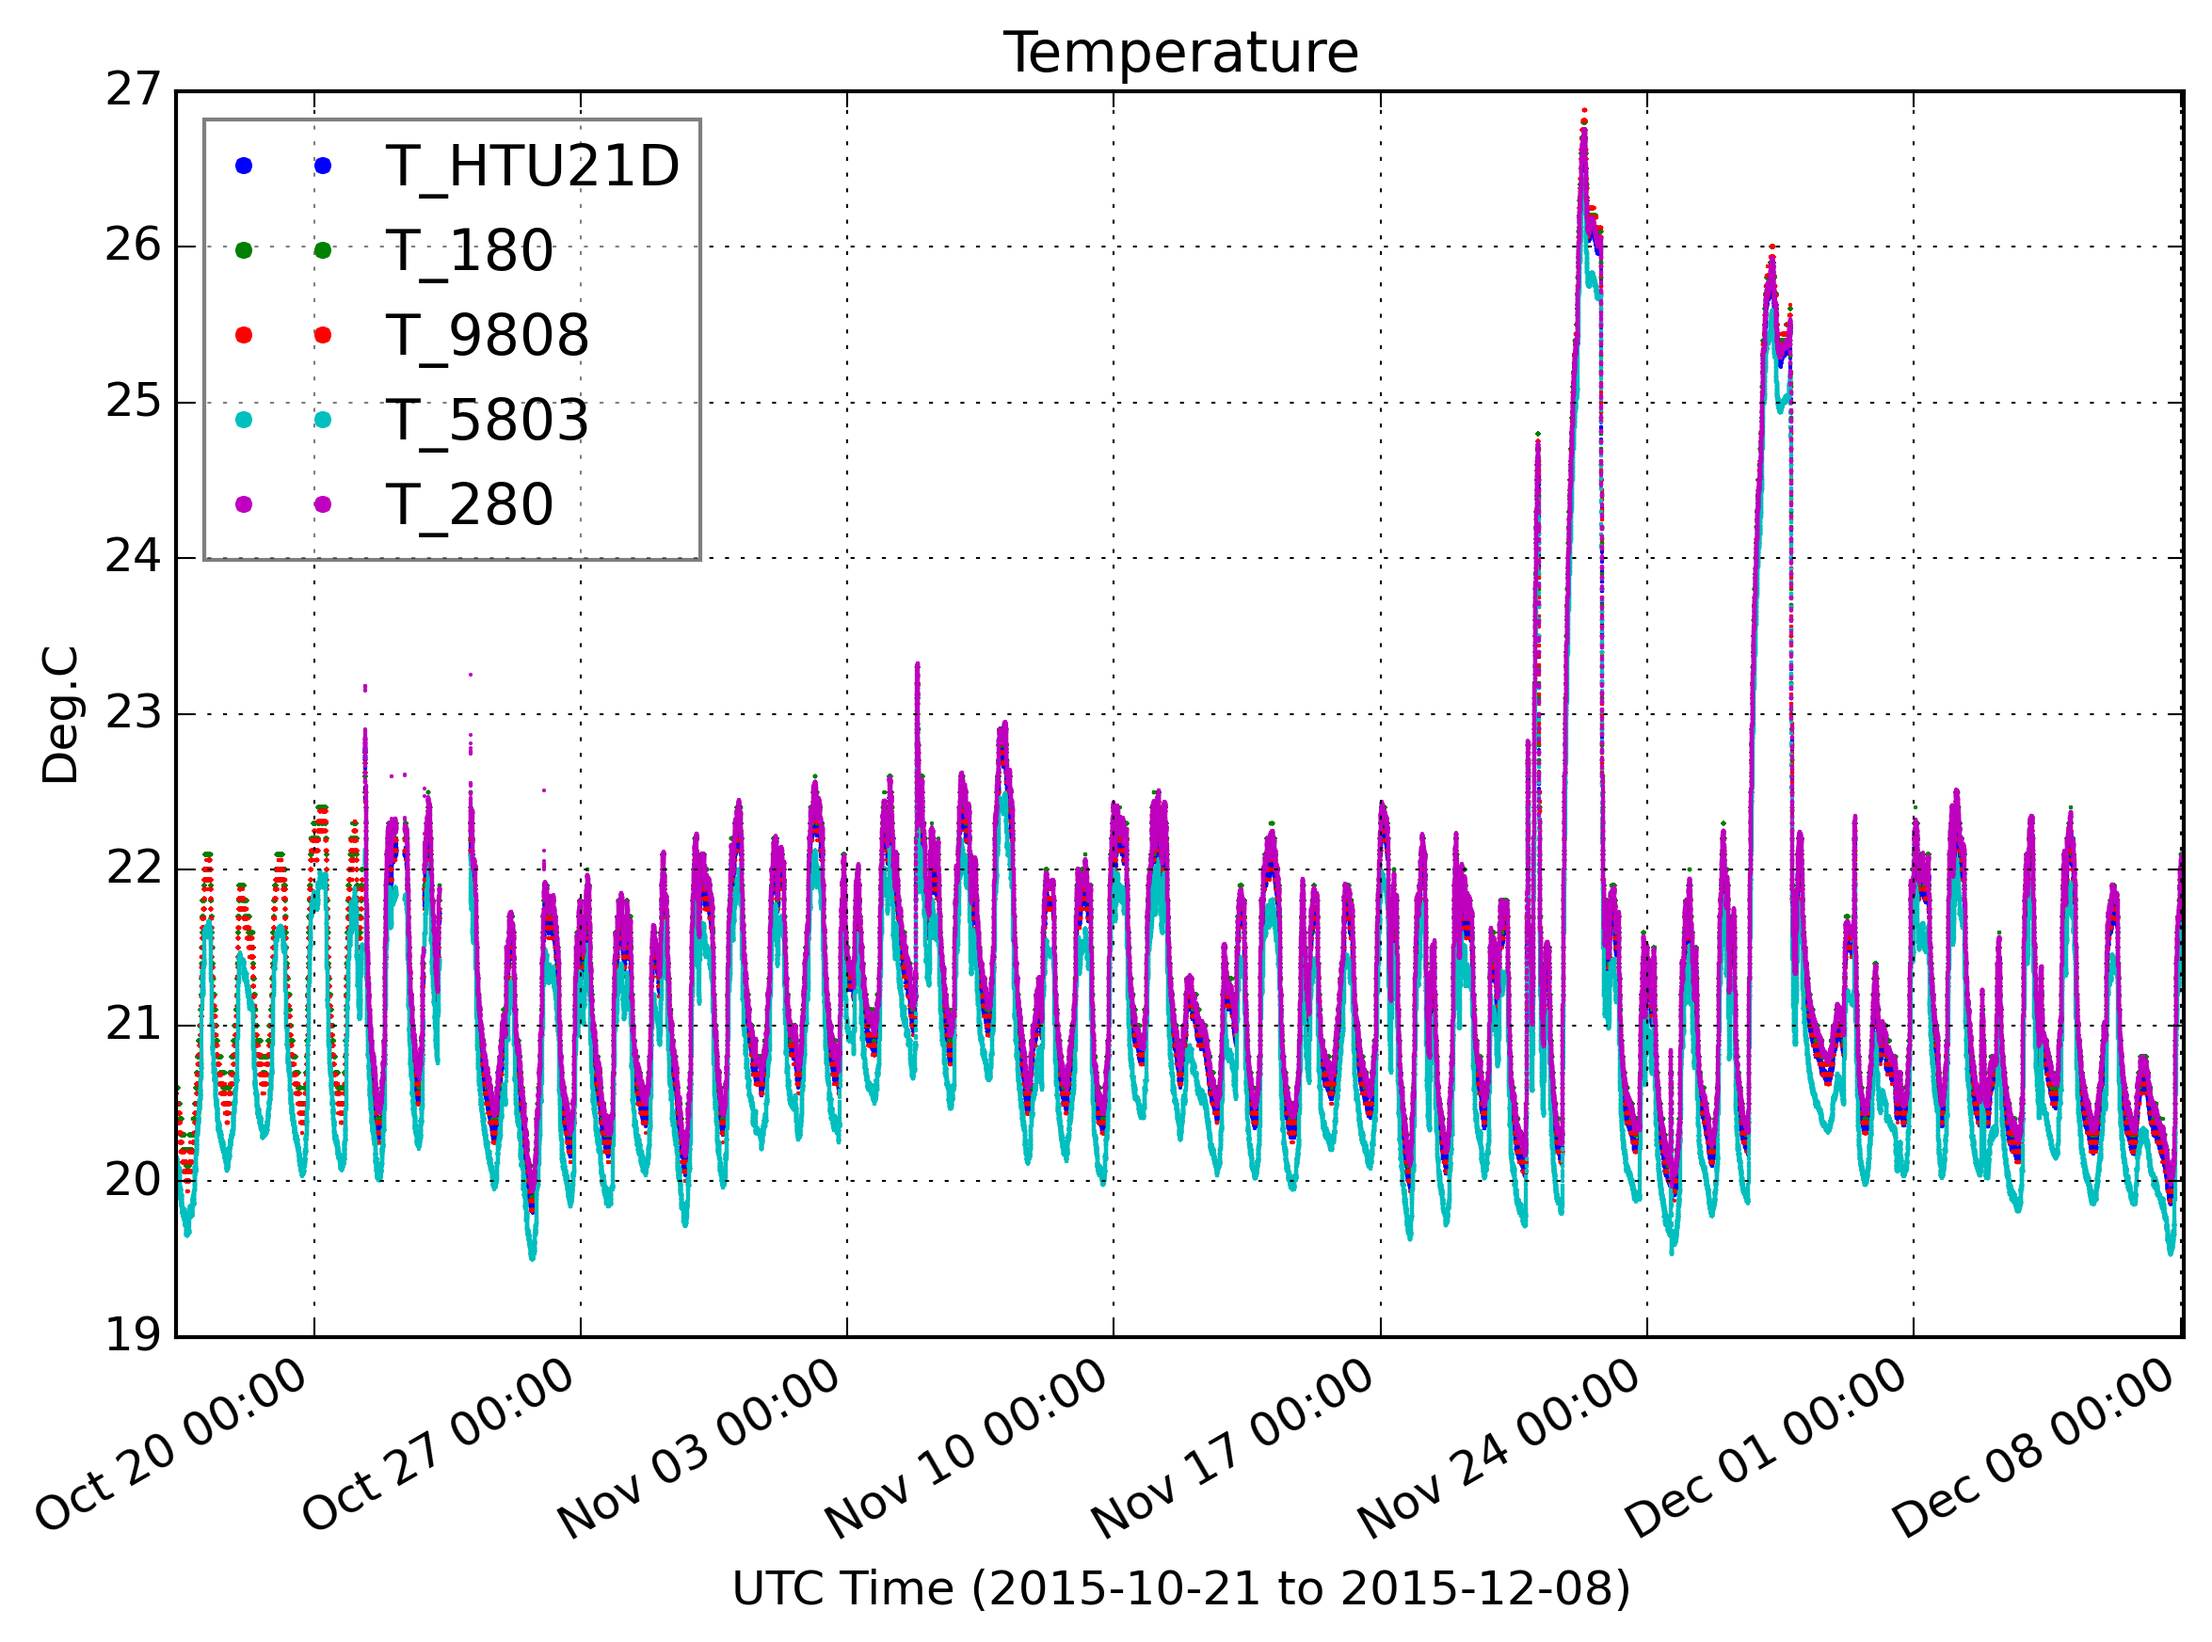
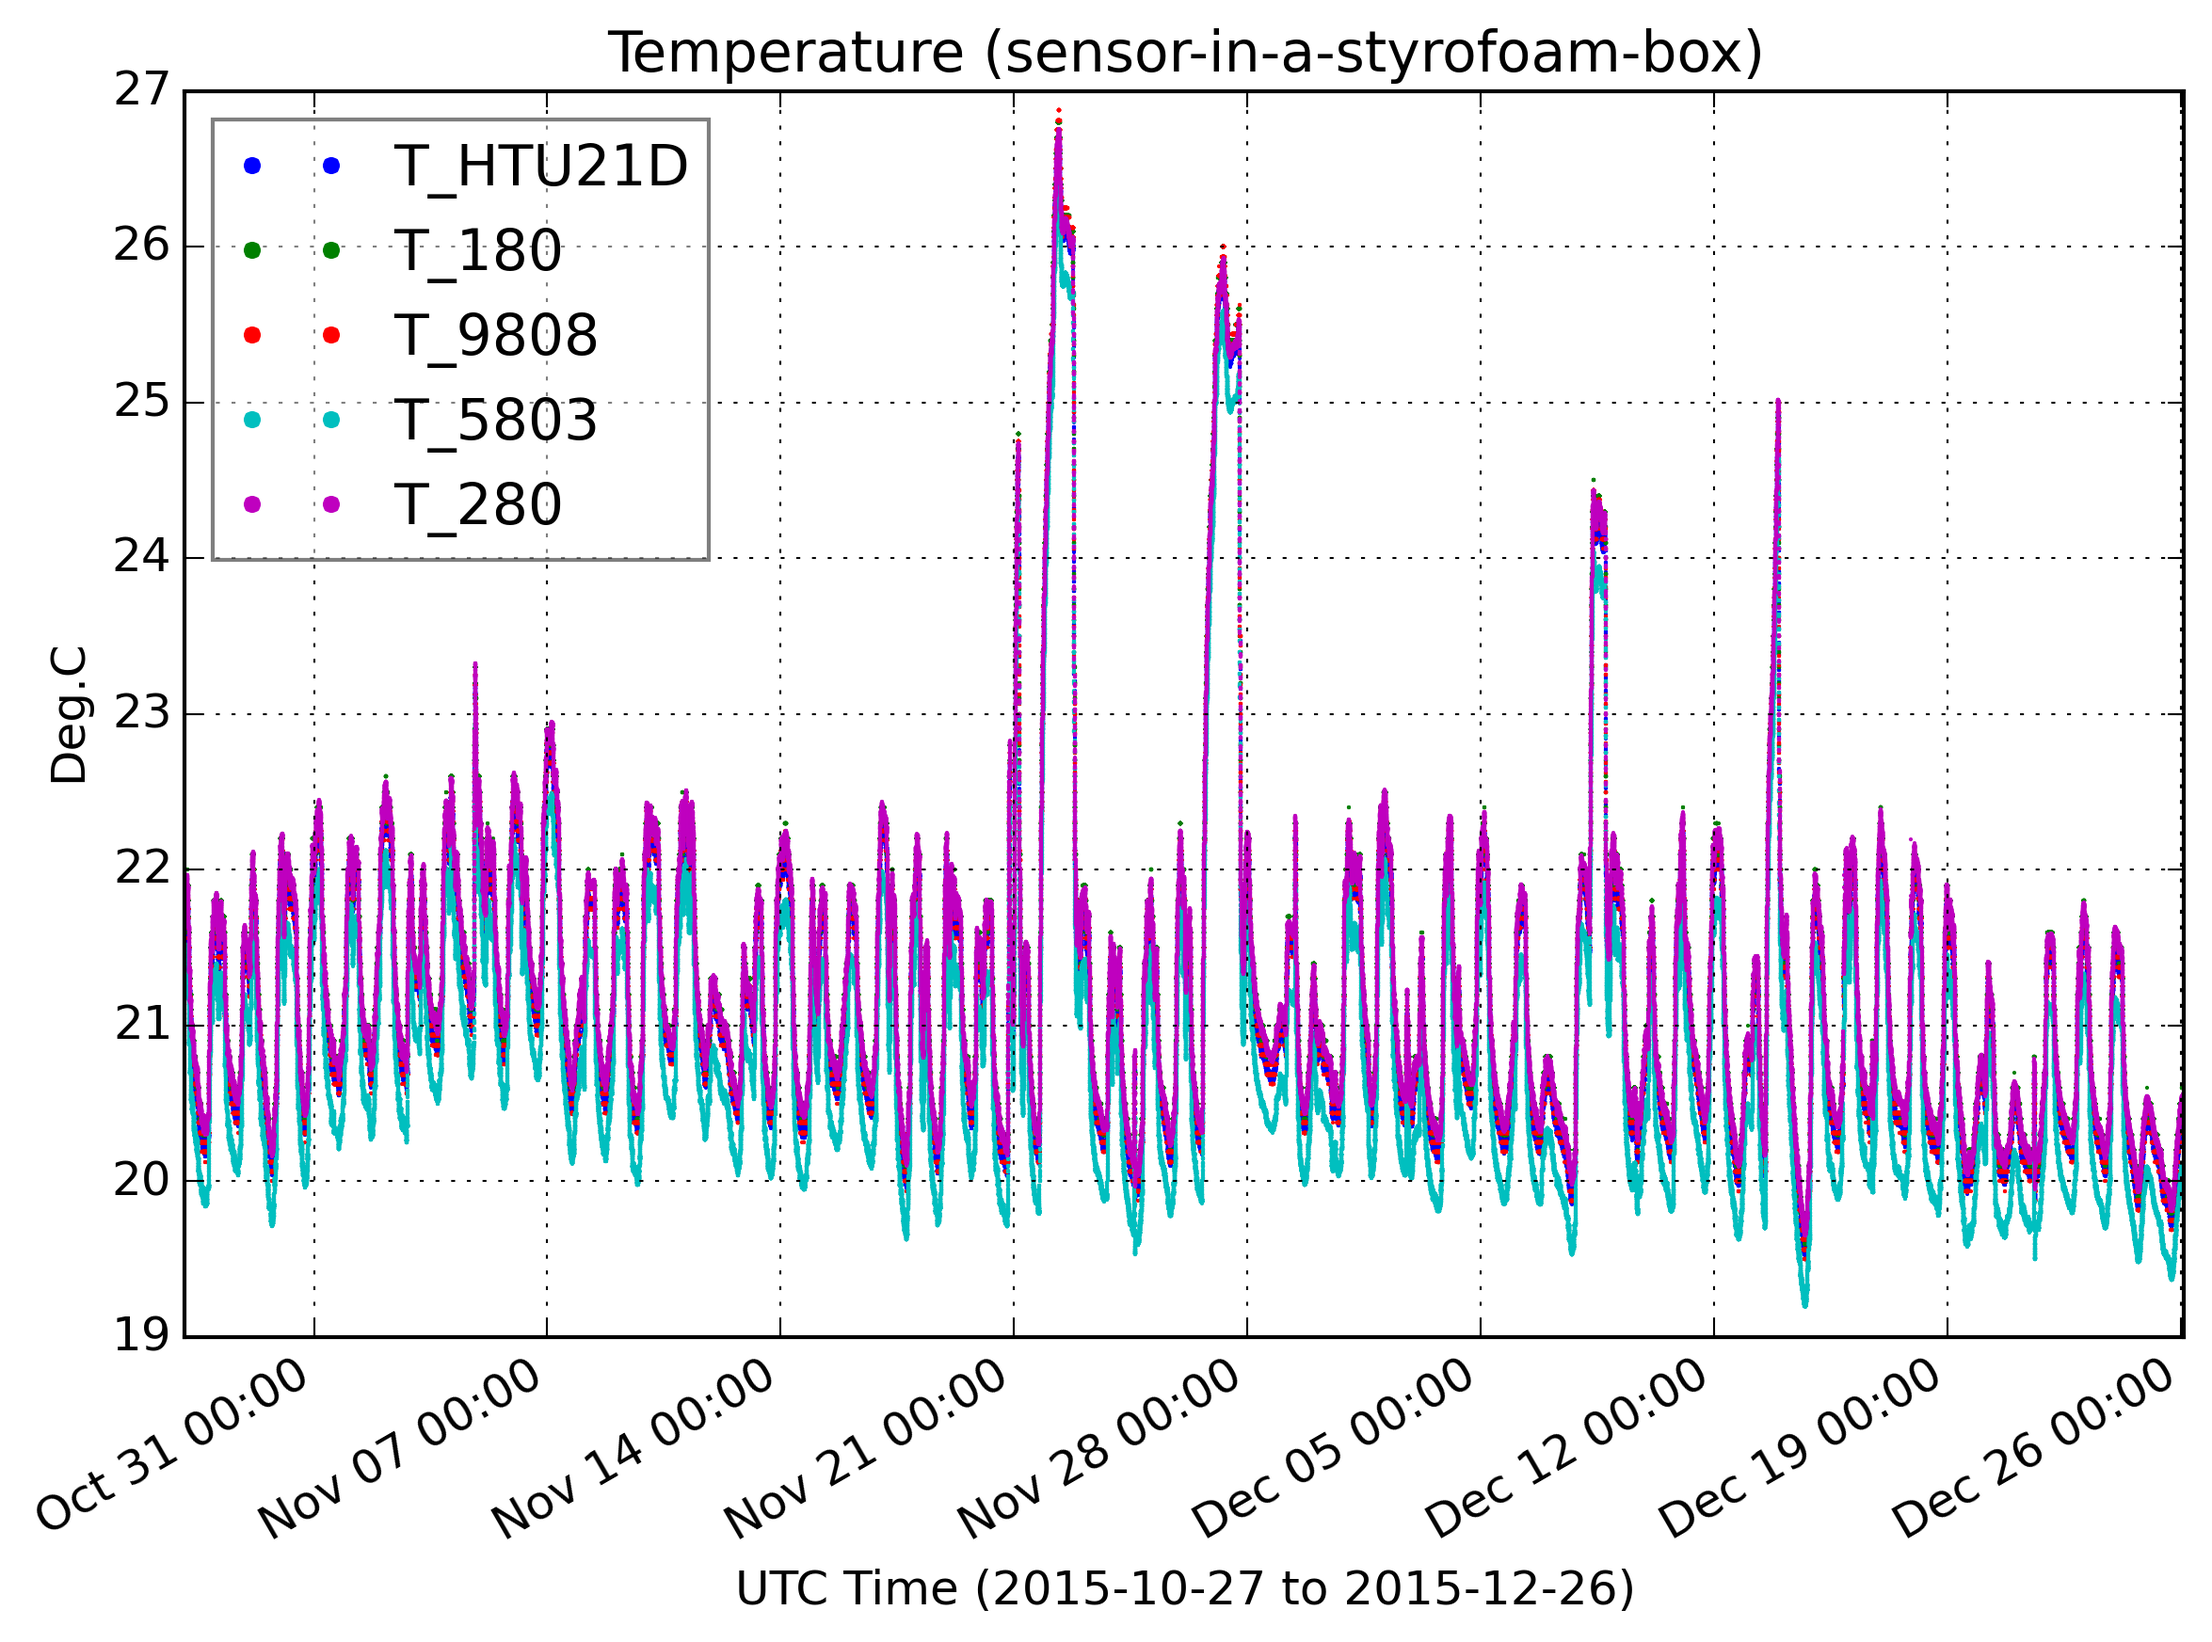
.

diff --git a/display/t4.py b/display/t4.py
@@ -1,0 +1,31 @@
+# humidity in RM228
+#
+# Stanley Lio, hlio@soest.hawaii.edu
+# December 2015
+import sys,traceback
+sys.path.append('..')
+from datetime import timedelta
+from storage.storage import storage_read_only
+from gen_plot import plot_multi_time_series
+
+
+dbfile = '/home/nuc/data/node-005/storage/sensor_data.db'
+store = storage_read_only(dbfile=dbfile)
+time_col = 'Timestamp'
+tmp = [time_col,'RH_HTU21D']
+d = store.read_time_range(node_id=5,time_col=time_col,cols=tmp,timerange=timedelta(days=30))
+d['RH_HTU21D'] = [float('NaN') if n is None else n for n in d['RH_HTU21D']]
+d5 = {'x':d[time_col],'y':d['RH_HTU21D'],'linelabel':'styroform'}
+
+dbfile = '/home/nuc/data/node-019/storage/sensor_data.db'
+store = storage_read_only(dbfile=dbfile)
+time_col = 'Timestamp'
+tmp = [time_col,'RH_HTU21D']
+d = store.read_time_range(node_id=19,time_col=time_col,cols=tmp,timerange=timedelta(days=30))
+d['RH_HTU21D'] = [float('NaN') if n is None else n for n in d['RH_HTU21D']]
+d19 = {'x':d[time_col],'y':d['RH_HTU21D'],'linelabel':'slpersonal'}
+
+data = [d5,d19]
+
+fn = '/home/nuc/node/www/t4/rh.png'
+plot_multi_time_series(data,fn,title='Humidity in MSB RM228 (HTU21D)',ylabel='%RH')

diff --git a/display/t3.py b/display/t3.py
@@ -1,4 +1,4 @@
-# 
+# temperature sensor comparison (silcon in styrofoam)
 #
 # Stanley Lio, hlio@soest.hawaii.edu
 # December 2015
@@ -32,5 +32,5 @@ def nanize(y,convf=lambda (x): x):
 print d.keys()
 data = [{'x':d[time_col],'y':nanize(d[k]),'linelabel':k} for k in d.keys() if k != time_col]
 fn = '/home/nuc/node/www/t3/temperature.png'
-plot_multi_time_series(data,fn,title='Temperature',ylabel='Deg.C')
+plot_multi_time_series(data,fn,title='Temperature (sensor-in-a-styrofoam-box)',ylabel='Deg.C')
 

diff --git a/display/t2.py b/display/t2.py
@@ -1,4 +1,5 @@
 # plot BMP180 data on base-001
+#
 # Stanley Lio, hlio@hawaii.edu
 # December 2015
 import traceback
